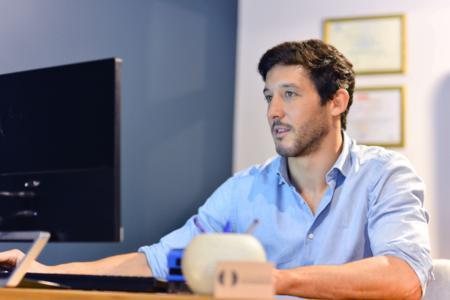
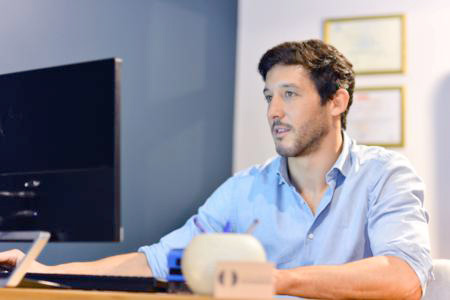
img web

diff --git a/resources/views/pages/consultaprivadas/hero.blade.php b/resources/views/pages/consultaprivadas/hero.blade.php
@@ -1,5 +1,5 @@
 <!--Hero-->
-	<div class="w-full mx-auto h-full bg-cover bg-center mb-4 py-24 px-4 md:py-48 " loading="auto" style="background-image: url(/img/consultas/Consultaprivadafont.png)">
+	<div class="w-full mx-auto h-full bg-cover bg-center mb-4 py-24 px-4 md:py-48 " loading="auto" style="background-image: url(/img/consultas/Consultaprivadafont.jpg)">
 
 		<div class="flex flex-col w-full md:w-2/3 justify-start sm:justify-center animated bounceInUp">
 

diff --git a/resources/views/pages/consultaprivadas/herodivided.blade.php b/resources/views/pages/consultaprivadas/herodivided.blade.php
@@ -29,7 +29,7 @@
 		<!--Right Col-->
 		<div class="w-full lg:w-1/2">
 			<!--Add your product image here-->
-			 <img src="/img/consultas/etapas.png" loading="auto" class="fill-current mx-auto" alt="etapas">
+			 <img src="/img/consultas/etapas.jpg" loading="auto" class="fill-current mx-auto" alt="etapas">
 		</div>		
 	</div>
 
